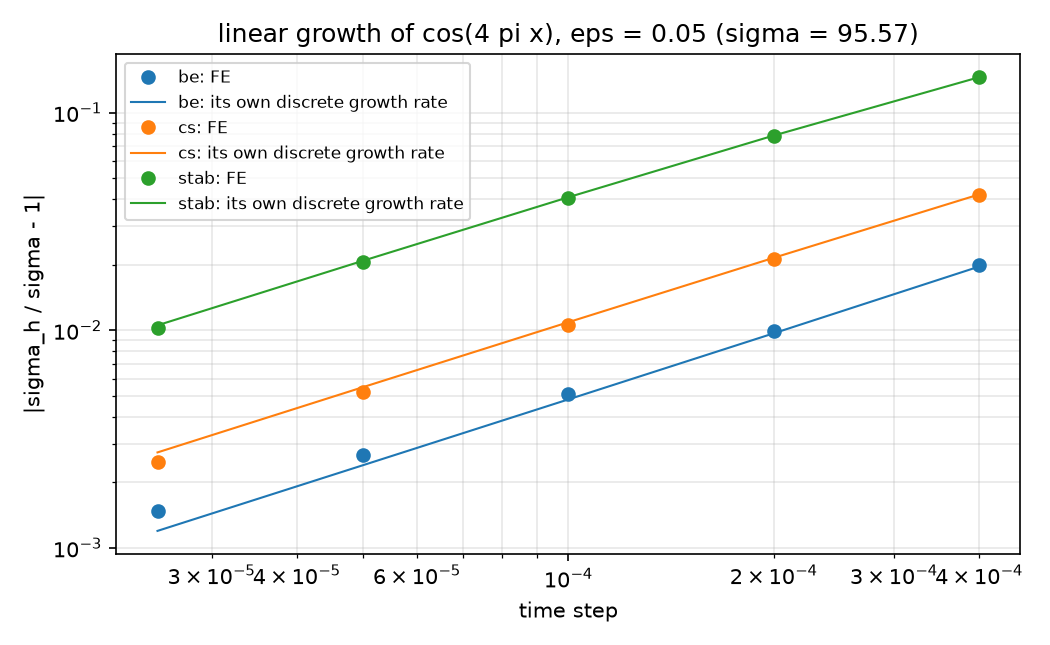
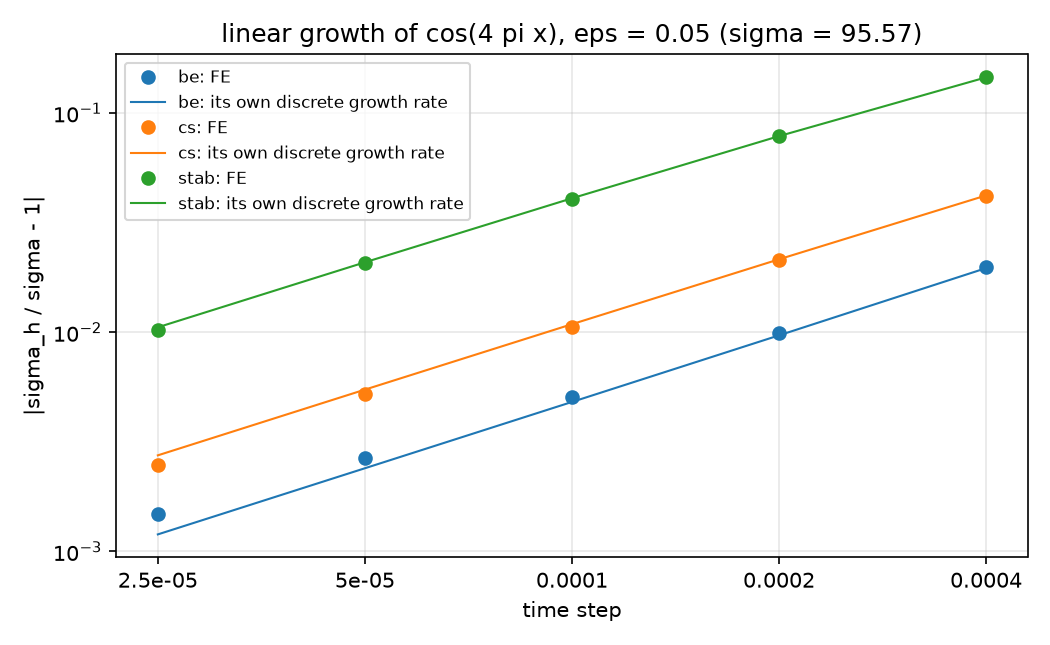
AMPS II Week 14: phase-separation checks re-examined
Four results re-examined while writing the textbook chapter on phase
separation. Each number comes from make_figs.py (PARTS=phase, which
leaves the timings of the performance part unchanged) or the HW13
solution.

- Growth rates: with the mesh's eigenvalue of cos(kx),
  k_h^2 = 6/h^2 (1 - cos kh)/(2 + cos kh), the finite element factor
  matches each scheme's growth factor to 6.3e-9; the rest scales with
  the square of the amplitude (the cubic term). New slide; HW13 Q2(b).
- Large steps: the reference E(0.05) = 0.12970 is 0.17 % from the
  value extrapolated in time; the mesh error is about 0.5 %.
- tanh interface: after 400 steps (t = 0.4) the interface had not
  relaxed, so the profile error stalled at 2.8e-3 and the slide's
  "second order in gamma" (actually 1.9, 1.8, 1.3) was wrong. Relaxed
  to t = 2, profile and gamma converge at second order. Slide and HW13
  Q3.
- Flory-Huggins: phase compositions from the maximum of a smoothed
  density (a histogram peak moves by 1e-3 with the bins) and the share
  of nodes near the binodal, instead of percentiles; the backward Euler
  failure (reason -4) is the third Newton update leaving (0, 1).
  Slide and HW13 Q4.

The growth figure's overlapping tick labels are fixed. The release also
carries the current week 1 reaction-error figure from the sources.

diff --git a/II/week14/W14_lecture.html b/II/week14/W14_lecture.html
@@ -271,7 +271,16 @@ c_t=\nabla\cdot(M\nabla\mu),\qquad\mu=f'(c)-\varepsilon^2\Delta c,\qquad E(c)=\i
 <section id="each-scheme-against-its-own-prediction" class="slide level2">
 <h2>Each scheme against its own prediction</h2>
 
-<img data-src="figs/w14_growth.png" class="quarto-figure quarto-figure-center r-stretch" style="width:72.0%"><p>Strip <span class="math inline">128\times2</span>, <span class="math inline">\varepsilon=0.05</span>, <span class="math inline">k=4\pi</span> (<span class="math inline">\sigma=95.57</span>). Every scheme is first order in <span class="math inline">\Delta t</span>; the FE rate sits on its own discrete rate to 0.03 % (the spatial error). Stabilisation costs accuracy: <span class="math inline">-4</span> % at <span class="math inline">\Delta t=10^{-4}</span> (BE +0.5 %, CS −1.1 %).</p>
+<img data-src="figs/w14_growth.png" class="quarto-figure quarto-figure-center r-stretch" style="width:72.0%"><p>Strip <span class="math inline">128\times2</span>, <span class="math inline">\varepsilon=0.05</span>, <span class="math inline">k=4\pi</span> (<span class="math inline">\sigma=95.57</span>). Every scheme is first order in <span class="math inline">\Delta t</span>; the FE rate sits on its own discrete rate to 0.03 %. Stabilisation costs accuracy: <span class="math inline">-4</span> % at <span class="math inline">\Delta t=10^{-4}</span> (BE +0.5 %, CS −1.1 %).</p>
+</section>
+<section id="the-last-0.03-the-meshs-wavenumber" class="slide level2">
+<h2>The last 0.03 %: the mesh’s wavenumber</h2>
+<ul>
+<li>On a uniform P1/Q1 mesh <span class="math inline">\cos kx</span> is an eigenvector of the mass and stiffness matrices, with <span class="math inline">k_h^2=\frac{6}{h^2}\frac{1-\cos kh}{2+\cos kh}=k^2\big(1-\frac{(kh)^2}{12}+\dots\big)</span> instead of <span class="math inline">k^2</span>.</li>
+<li>Per step, the FE factor differs from <span class="math inline">g(k)</span> by <span class="math inline">1.0\times10^{-5}</span>, <span class="math inline">2.5\times10^{-6}</span>, <span class="math inline">6.3\times10^{-7}</span> (64, 128, 256 cells: second order) — and from <span class="math inline">g(k_h)</span> by at most <span class="math inline">6.3\times10^{-9}</span> for all schemes and steps.</li>
+<li>What is left is the cubic term the linear analysis drops: an initial amplitude <span class="math inline">10^{-5}</span> instead of <span class="math inline">10^{-4}</span> reduces it from <span class="math inline">1.3\times10^{-9}</span> to <span class="math inline">1.3\times10^{-11}</span> — the factor 100 of a term in (amplitude)².</li>
+<li>Code, scheme and spatial discretisation are separated <strong>exactly</strong>: every part of the error has a formula.</li>
+</ul>
 </section>
 <section id="three-schemes-three-properties" class="slide level2">
 <h2>Three schemes, three properties</h2>
@@ -335,7 +344,7 @@ c_t=\nabla\cdot(M\nabla\mu),\qquad\mu=f'(c)-\varepsilon^2\Delta c,\qquad E(c)=\i
 <img data-src="figs/w14_fields.png" class="quarto-figure quarto-figure-center r-stretch" style="width:82.0%"></section>
 <section id="large-time-steps-what-the-figures-say" class="slide level2">
 <h2>Large time steps: what the figures say</h2>
-<p><span class="math inline">64\times64</span>, <span class="math inline">\varepsilon=0.02</span>; reference <span class="math inline">E(0.05)=0.12970</span> (BE, <span class="math inline">\Delta t=10^{-4}</span>):</p>
+<p><span class="math inline">64\times64</span>, <span class="math inline">\varepsilon=0.02</span>; reference <span class="math inline">E(0.05)=0.12970</span> (BE, <span class="math inline">\Delta t=10^{-4}</span>). The reference itself, checked: <span class="math inline">\Delta t=5\times10^{-5}</span>, <span class="math inline">2.5\times10^{-5}</span> give 0.12981, 0.12987 (order 1.0), extrapolated 0.12993 — the reference is 0.17 % off in time. The mesh matters more: <span class="math inline">32^2</span> / <span class="math inline">128^2</span> give 0.13223 / 0.12902 (about 0.5 % at <span class="math inline">64^2</span>). All runs below share the mesh: they compare the <strong>time schemes</strong> only.</p>
 <table class="caption-top">
 <colgroup>
 <col style="width: 16%">
@@ -375,6 +384,7 @@ c_t=\nabla\cdot(M\nabla\mu),\qquad\mu=f'(c)-\varepsilon^2\Delta c,\qquad E(c)=\i
 <section id="the-equilibrium-interface" class="slide level2">
 <h2>The equilibrium interface</h2>
 <p>A 1D interface relaxes to <span class="math inline">c=\tanh\frac{x}{\sqrt2\varepsilon}</span> with interfacial energy <span class="math inline">\gamma=\frac{2\sqrt2}{3}\varepsilon</span> — a second known answer.</p>
+<p>Started twice as wide; convex splitting, <span class="math inline">\Delta t=10^{-3}</span> to <span class="math inline">t=0.4</span>, then <span class="math inline">10^{-2}</span> to <span class="math inline">t=2</span>:</p>
 <table class="caption-top">
 <thead>
 <tr class="header">
@@ -394,15 +404,32 @@ c_t=\nabla\cdot(M\nabla\mu),\qquad\mu=f'(c)-\varepsilon^2\Delta c,\qquad E(c)=\i
 <td style="text-align: center;">14</td>
 </tr>
 <tr class="even">
-<td><span class="math inline">\gamma</span> error</td>
-<td style="text-align: center;">+1.06 %</td>
-<td style="text-align: center;">+0.28 %</td>
-<td style="text-align: center;">+0.083 %</td>
-<td style="text-align: center;">+0.033 %</td>
+<td>profile error (nodes), <span class="math inline">t=0.4</span></td>
+<td style="text-align: center;">5.1e-3</td>
+<td style="text-align: center;">2.8e-3</td>
+<td style="text-align: center;">2.8e-3</td>
+<td style="text-align: center;">2.8e-3</td>
+</tr>
+<tr class="odd">
+<td>profile error (nodes), <span class="math inline">t=2</span></td>
+<td style="text-align: center;">5.7e-3</td>
+<td style="text-align: center;">1.5e-3</td>
+<td style="text-align: center;">3.8e-4</td>
+<td style="text-align: center;">9.4e-5</td>
+</tr>
+<tr class="even">
+<td><span class="math inline">\gamma</span> error, <span class="math inline">t=2</span></td>
+<td style="text-align: center;">+1.04 %</td>
+<td style="text-align: center;">+0.27 %</td>
+<td style="text-align: center;">+0.067 %</td>
+<td style="text-align: center;">+0.017 %</td>
 </tr>
 </tbody>
 </table>
-<p>Second order in <span class="math inline">\gamma</span>. A 2D run of <span class="math inline">64\times64</span> at <span class="math inline">\varepsilon=0.02</span> has 1.8 cells per interface width — fine for the pattern, about 1 % in the interfacial energy.</p>
+<ul>
+<li>At <span class="math inline">t=0.4</span> the profile error <strong>does not fall with the mesh</strong>: not a discretisation error — the interface is still relaxing (diffusion through the bulk is slow). Relaxed (<span class="math inline">t=2</span>; to <span class="math inline">t=10</span> nothing changes), profile and <span class="math inline">\gamma</span> are second order (2.0).</li>
+<li>A test against an equilibrium needs the equilibrium. <span class="math inline">64\times64</span> at <span class="math inline">\varepsilon=0.02</span> has 1.8 cells per interface width: fine for the pattern, 1 % in the interfacial energy.</li>
+</ul>
 </section></section>
 <section>
 <section id="part-b-floryhuggins" class="title-slide slide level1 center" data-background-color="#1f3864">
@@ -424,7 +451,8 @@ f(\phi)=\frac{\phi}{N_1}\ln\phi+\frac{1-\phi}{N_2}\ln(1-\phi)+\chi\,\phi(1-\phi)
 <section id="floryhuggins-the-separated-blend" class="slide level2">
 <h2>Flory–Huggins: the separated blend</h2>
 
-<img data-src="figs/w14_fh.png" class="quarto-figure quarto-figure-center r-stretch" style="width:88.0%"><p><span class="math inline">\chi=3</span>, <span class="math inline">64\times64</span>, <span class="math inline">\Delta t</span> ramped <span class="math inline">10^{-5}\to10^{-3}</span>: nodal <span class="math inline">\phi</span> 5th/95th percentiles 0.0711 / 0.9309 against the binodal 0.0707 / 0.9293; mass drift <span class="math inline">7\times10^{-16}</span>. One step of <span class="math inline">\Delta t=10^{-3}</span> from the start: BE <strong>reason −4</strong> (a Newton iterate leaves <span class="math inline">(0,1)</span>, the logarithm is NaN), CS converges in 2 iterations.</p>
+<img data-src="figs/w14_fh.png" class="quarto-figure quarto-figure-center r-stretch" style="width:88.0%"><p><span class="math inline">\chi=3</span>, <span class="math inline">64\times64</span>, <span class="math inline">\Delta t</span> ramped <span class="math inline">10^{-5}\to10^{-3}</span>, <span class="math inline">t=0.166</span>: the composition of each phase — the maximum of a smoothed density of the nodal <span class="math inline">\phi</span> (Gaussian kernel, width <span class="math inline">10^{-3}</span>; a histogram peak moves by <span class="math inline">\sim10^{-3}</span> with the bins) — is 0.0720 / 0.9294 against the binodal 0.0707 / 0.9293; 28 % / 43 % of the nodes lie within 0.002 of it (65 % / 78 % at <span class="math inline">t=1.5</span>, textbook). Mass drift <span class="math inline">1\times10^{-15}</span>. Single nodes overshoot (0.0684 / 0.9337: no maximum principle, small curved domains) — extremes or percentiles of the nodal values are a poor test.</p>
+<p>One step of <span class="math inline">\Delta t=10^{-3}</span> from the start: BE <strong>reason −4</strong> after 2 iterations, CS converges in 2. The first two BE iterates stay in <span class="math inline">[0.18, 0.84]</span>; the <strong>third</strong> Newton update overshoots to <span class="math inline">[-2.26, 3.87]</span> — 1877 of 4225 nodes outside <span class="math inline">(0,1)</span>, the logarithm is NaN.</p>
 </section></section>
 <section>
 <section id="part-c-parallel-performance" class="title-slide slide level1 center" data-background-color="#1f3864">
@@ -752,6 +780,14 @@ f(\phi)=\frac{\phi}{N_1}\ln\phi+\frac{1-\phi}{N_2}\ln(1-\phi)+\chi\,\phi(1-\phi)
 <tr class="even">
 <td>A log free energy with fully implicit Newton</td>
 <td>an iterate outside <span class="math inline">(0,1)</span>: NaN, reason −4</td>
+</tr>
+<tr class="odd">
+<td>A profile compared with the equilibrium before it has relaxed</td>
+<td>an error that does not fall with the mesh (2.8e-3 on 100–400 cells)</td>
+</tr>
+<tr class="even">
+<td>Phases judged by nodal extremes or percentiles</td>
+<td>overshoot beyond the binodal (0.0684 / 0.9337) — use the maximum of a smoothed density</td>
 </tr>
 <tr class="odd">
 <td>A sine right-hand side on a uniform mesh</td>
